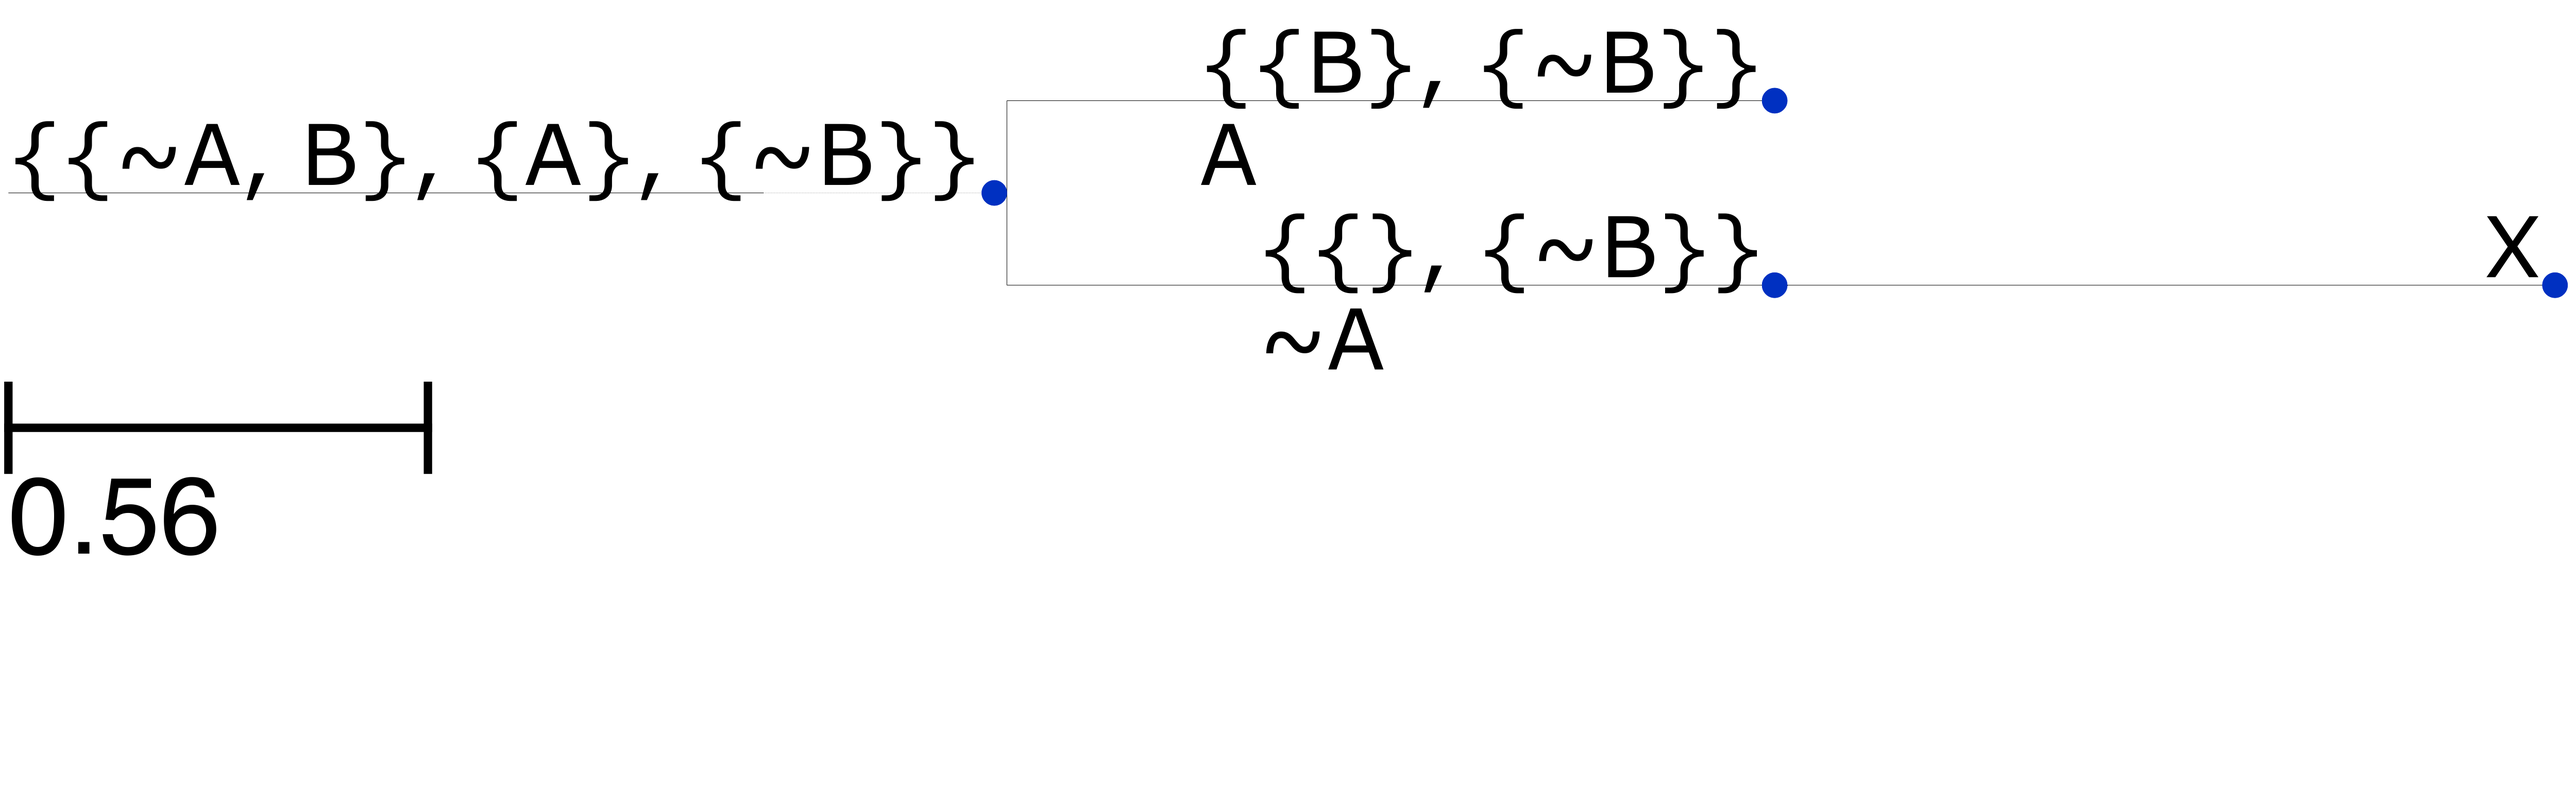
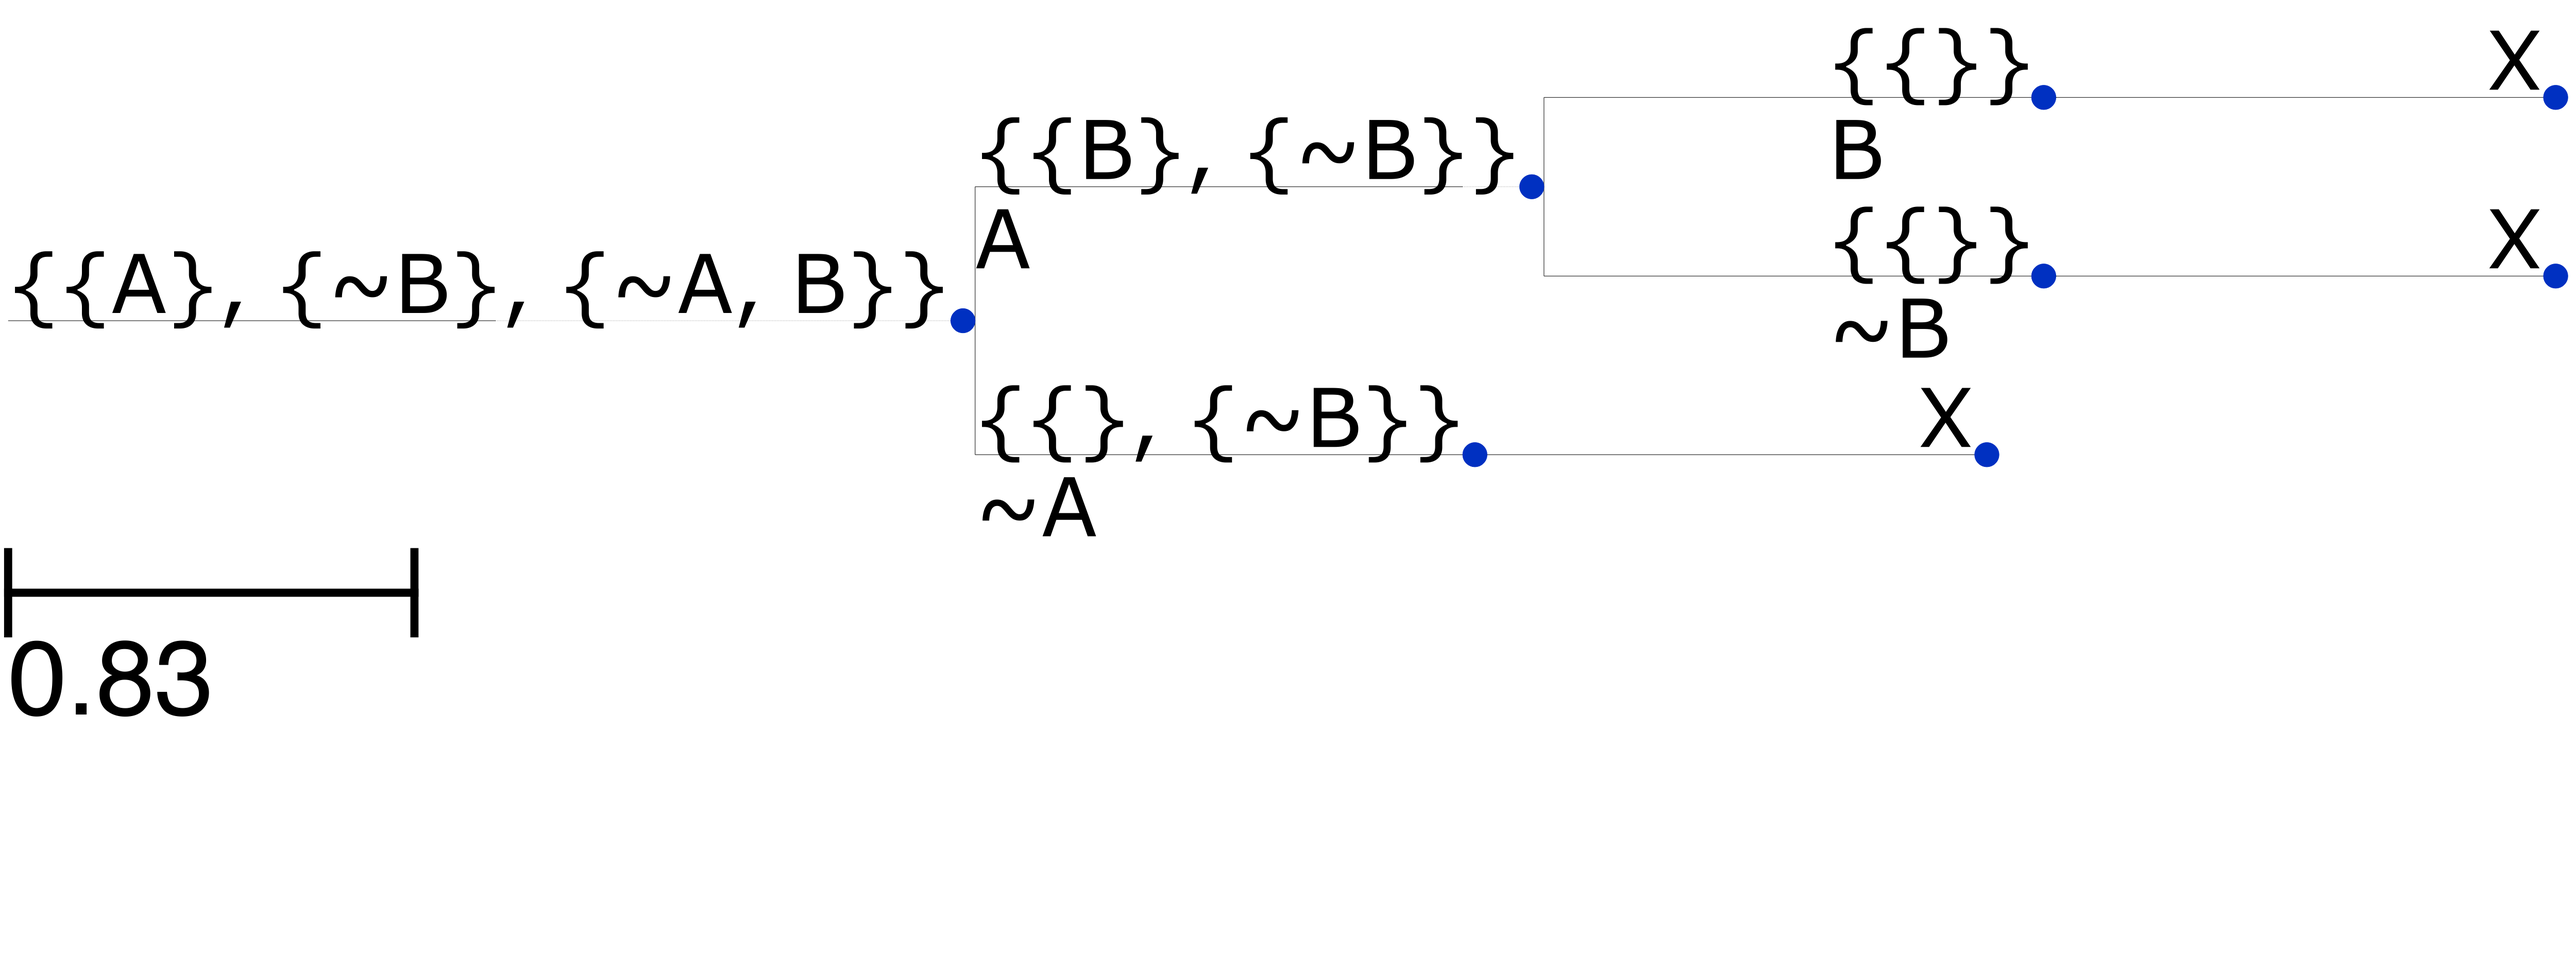
go Sat() outputs a json file that can be made into the trees

diff --git a/davisputnam/dp.go b/davisputnam/dp.go
@@ -5,7 +5,6 @@ import (
 	"davisputnam/literal"
 	"davisputnam/clause"
 	"davisputnam/clauseset"
-	//"davisputnam/connector"
 	"fmt"
 	"log"
 	"os"
@@ -13,8 +12,15 @@ import (
 	"net/http"
 	"io/ioutil"
 	"regexp"
+	"encoding/json"
 )
 
+
+type Tree struct {
+	Name 		string
+	Split 		string
+	Children	[]Tree
+}
 /*
 def Satisfiable(CS):
     if CS = {}:
@@ -28,14 +34,17 @@ def Satisfiable(CS):
 */
 
 //Satisfiable implements above function
-func Satisfiable(CS clauseset.ClauseSet) bool {
+func Satisfiable(CS clauseset.ClauseSet) (bool, Tree) {
+	tree := Tree{Name: CS.String(), Split: ""}
 	fmt.Printf("\n%sSatisfiable(%s)\n", strings.Repeat(" ", CS.Indent), CS)
 	CS.Indent += 2
 
 	//if CS = {} : return true
 	if CS.Len() == 0 {
 		fmt.Printf("%sEmpty ClauseSet, returning true\n", strings.Repeat(" ", CS.Indent))
-		return true
+		openTree := Tree{Name: "O", Split: ""}
+		tree.Children = append(tree.Children, openTree)
+		return true, tree
 	}
 
 	//if {} in CS : return false
@@ -45,7 +54,9 @@ func Satisfiable(CS clauseset.ClauseSet) bool {
 	}
 	if clause.Len(firstElement) == 0 {
 		fmt.Printf("%s{} found in ClauseSet, returning false\n", strings.Repeat(" ", CS.Indent))
-		return false
+		closedTree := Tree{Name: "X", Split: ""}
+		tree.Children = append(tree.Children, closedTree)
+		return false, tree
 	}
 
 	//select L in lit(CS): return Satisfiable(CS_L) || Satisfiable(CS_L')
@@ -61,7 +72,15 @@ func Satisfiable(CS clauseset.ClauseSet) bool {
 	CSR := CS.Reduce(nextLiteral.Negation())
 	CSR.Indent = CS.Indent
 
-	return Satisfiable(CSL) || Satisfiable(CSR)
+	left, tree_l := Satisfiable(CSL)
+	right, tree_r := Satisfiable(CSR)
+
+	tree_l.Split = nextLiteral.String()
+	tree_r.Split = nextLiteral.Negation().String()
+
+	tree.Children = append(tree.Children, tree_l)
+	tree.Children = append(tree.Children, tree_r)
+	return left || right, tree
 }
 
 //FindValidity finds the validity of the argument (given as a ClauseSet)
@@ -69,7 +88,11 @@ func FindValidity(CS clauseset.ClauseSet) {
 	fmt.Printf("Starting ClauseSet: %s\n", CS)
 
 	CS.Indent = 0
-	sat := Satisfiable(CS)
+	sat, tree := Satisfiable(CS)
+	treeJson, _ := json.Marshal(tree)
+
+	f, _ := os.Create("../graphing/test_tree.json")
+	f.WriteString(string(treeJson))
 
 	fmt.Print("Conclusion: ")
 	if sat {
@@ -169,6 +192,7 @@ func ConstructCS(file string) clauseset.ClauseSet {
 			line = fmt.Sprintf("~(%s)", line)
 			contin = false
 		}
+		fmt.Println(line)
 
 		cs := getCNF(line)
 		newCS = clauseset.Combine(newCS, cs)

diff --git a/graphing/graph.py b/graphing/graph.py
@@ -5,10 +5,11 @@ from ete3 import Tree, TreeStyle, TextFace
 
 def parseTree(root):
     tree = Tree()
-    tree.name = root['name']
-    tree.add_face(TextFace(root['split']), column=0, position="branch-bottom")
-    for child in root['children']:
-        tree.children.append(parseTree(child))
+    tree.name = root['Name']
+    tree.add_face(TextFace(root['Split']), column=0, position="branch-bottom")
+    if root['Children']:
+        for child in root['Children']:
+            tree.children.append(parseTree(child))
     return tree
 
 
@@ -20,7 +21,7 @@ with open('sample_tree.json', 'w') as outfile:
 ts = TreeStyle()
 ts.show_leaf_name = False
 
-root = json.loads(open('sample_tree.json').read())
+root = json.loads(open('test_tree.json').read())
 
 pprint(root)
 tree_root = parseTree(root)

diff --git a/davisputnam/satisfiable_test.go b/davisputnam/satisfiable_test.go
@@ -41,7 +41,7 @@ func SatValid(t *testing.T) {
 	CS.Append(three)
 	CS.Append(four)
 
-	sat := Satisfiable(CS)
+	sat, _ := Satisfiable(CS)
 	if sat {
 		t.Errorf("ClauseSet %q was Satisfiable, so it is an invalid argument (it should be valid)", CS)
 	}
@@ -74,7 +74,7 @@ func SatInvalid(t *testing.T) {
 	CS.Append(three)
 	CS.Indent = 0
 
-	sat := Satisfiable(CS)
+	sat, _ := Satisfiable(CS)
 	if !sat {
 		t.Errorf("ClauseSet %q was not Satisfiable, so it is a valid argument (it should be invalid)", CS)
 	}

diff --git a/davisputnam/parseSat_test.go b/davisputnam/parseSat_test.go
@@ -16,7 +16,7 @@ func TestParseSat(t *testing.T) {
 	}
 	for _, c := range cases {
 		CS := ConstructCS(c.file)
-		got := Satisfiable(CS)
+		got, _ := Satisfiable(CS)
 		if got != c.want {
 			t.Errorf("Satisfiable(%q): %t != %t", CS, got, c.want)
 		}
